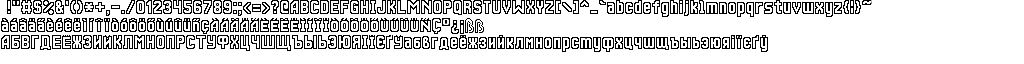
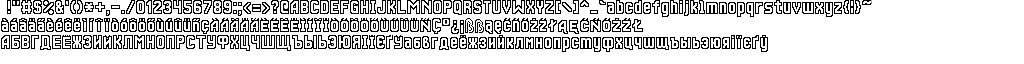
Polish symbols for classic font

Changed region(s): [[0.4688, 0.2812, 0.625, 0.5312]]

diff --git a/RemixedDungeon/src/main/java/com/watabou/noosa/Font.java b/RemixedDungeon/src/main/java/com/watabou/noosa/Font.java
@@ -12,7 +12,7 @@ import java.util.HashMap;
 
 public class Font extends TextureFilm {
 	public static final String SPECIAL_CHAR =
-	"àáâäãèéêëìíîïòóôöõùúûüñçÀÁÂÄÃÈÉÊËÌÍÎÏÒÓÔÖÕÙÚÛÜÑÇº¿¡ẞß";
+	"àáâäãèéêëìíîïòóôöõùúûüñçÀÁÂÄÃÈÉÊËÌÍÎÏÒÓÔÖÕÙÚÛÜÑÇº¿¡ẞßąęćńóżźłĄĘĆŃÓŻŹŁ";
 
 	public static final String LATIN_UPPER =
 	" !\"#$%&'()*+,-./0123456789:;<=>?@ABCDEFGHIJKLMNOPQRSTUVWXYZ";

diff --git a/RemixedDungeon/src/main/java/com/watabou/pixeldungeon/sprites/MobSprite.java b/RemixedDungeon/src/main/java/com/watabou/pixeldungeon/sprites/MobSprite.java
@@ -46,7 +46,6 @@ public class MobSprite extends CharSprite {
 		super.onComplete( anim );
 		
 		if (anim == die) {
-			final Group parent = getParent();
 			GameScene.addToMobLayer(new AlphaTweener(this, 0, FADE_TIME) {
 					@Override
 					protected void onComplete() {
